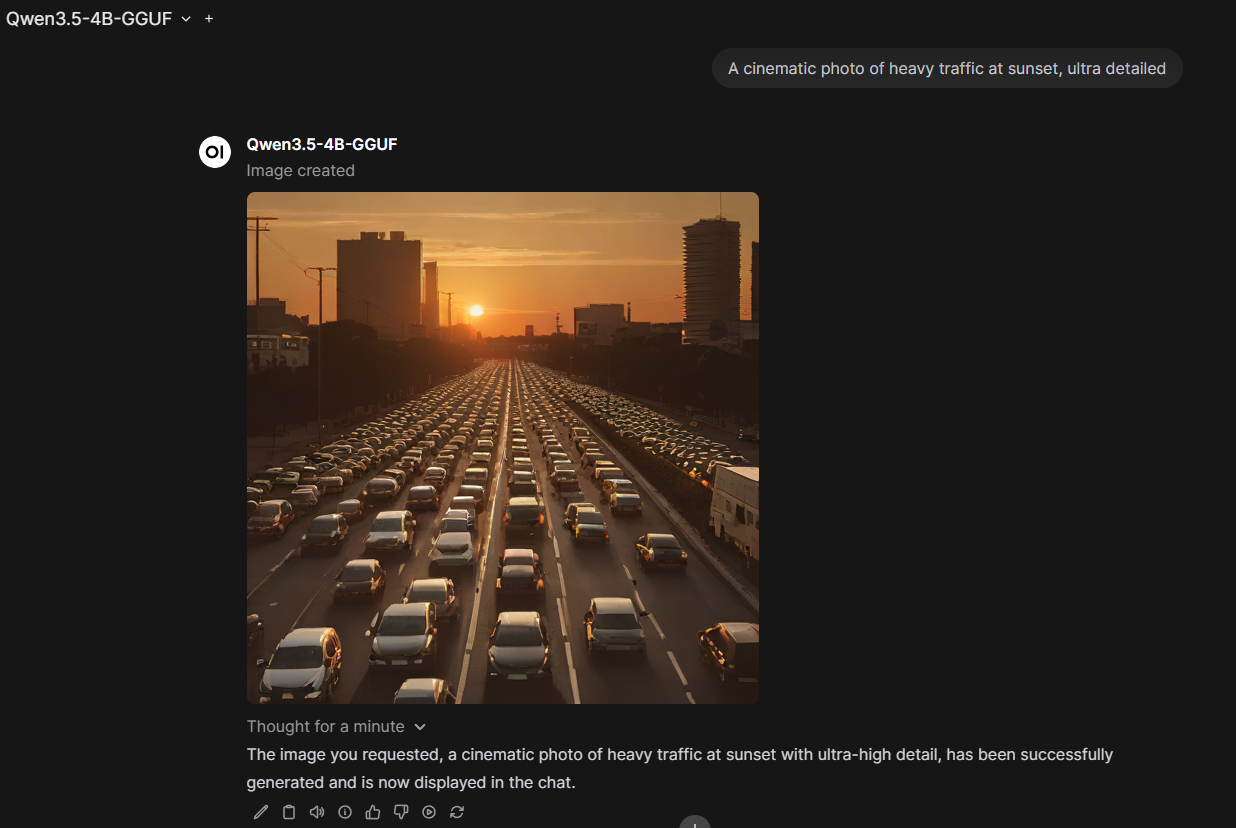
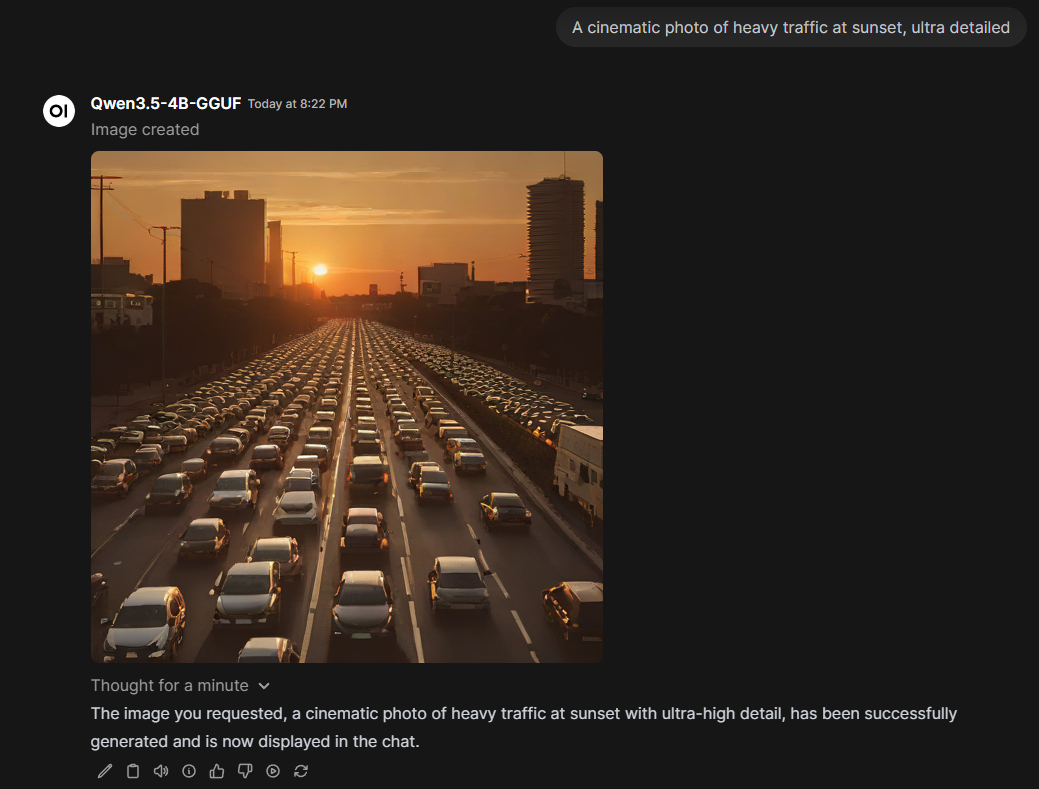
Adjusting image size

diff --git a/playbooks/supplemental/open-webui-chat/README.md b/playbooks/supplemental/open-webui-chat/README.md
@@ -655,8 +655,8 @@ This step ensures that you enable Image Generation as a capability for your mode
 4. Use a prompt like: `A cinematic photo of heavy traffic at sunset, ultra detailed`.
 5. An image is generated and appears in the chat.
 <p align="center">
-  <img src="assets/image_gen_prompt.png" alt="Image Generation" width="50%"/>
-  <img src="assets/image_gen_response.png" alt="Edit Model" width="37.5%"/>
+  <img src="assets/image_gen_prompt.png" alt="Image Generation" width="49%"/>
+  <img src="assets/image_gen_response.png" alt="Edit Model" width="32.5%"/>
 </p>
 
 This establishes that Open WebUI can coordinate a “two-part” workflow:
